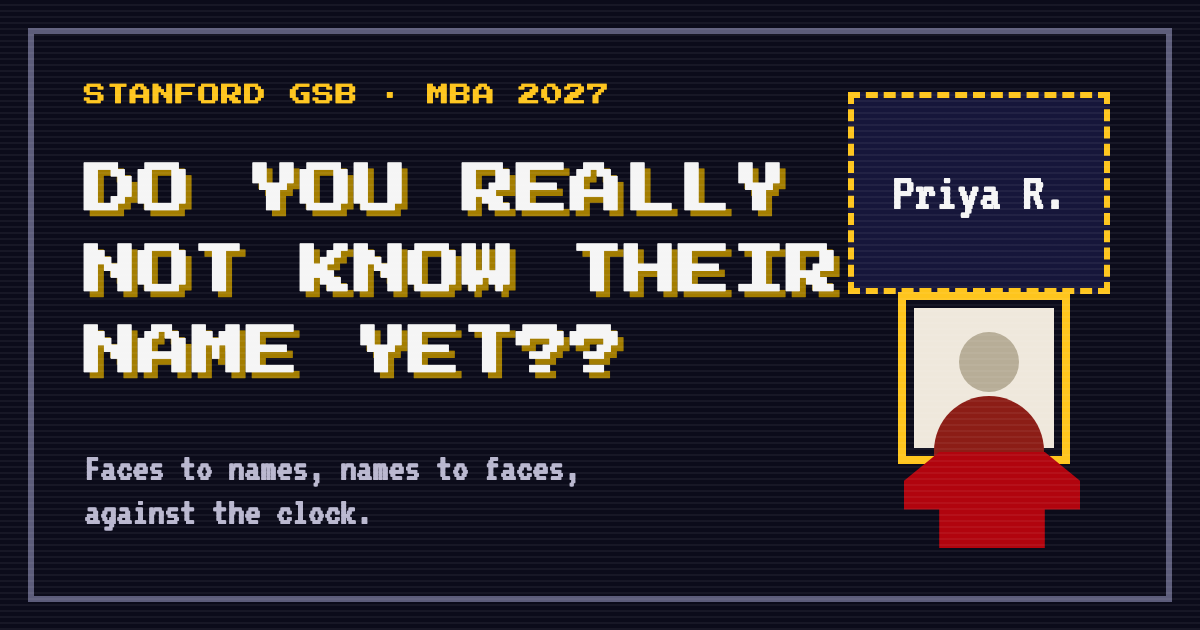
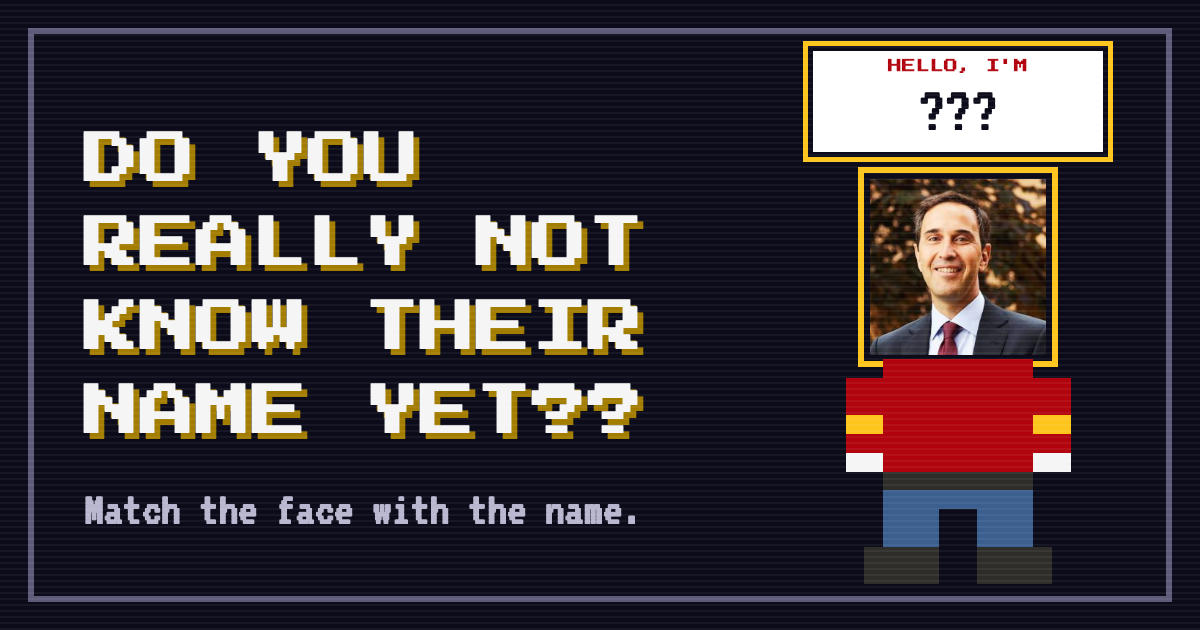
Preserve concurrent sharing design alongside campus launch fixes

diff --git a/server/gsb/invite.js b/server/gsb/invite.js
@@ -1,0 +1,46 @@
+// The page a shared link lands on, with a preview that says who is asking and for what. iMessage and the
+// other chat apps fetch it without a session, so it carries a nickname and a code and nothing else about
+// the class: no face, no classmate's name, no score. The visual title in the tab stays the game's name.
+import { readFile } from "node:fs/promises";
+import { siteMetadata } from "../../scripts/lib/site-metadata.js";
+import { normalizeCode } from "../../public/shared/codes.js";
+
+const SHELL = new URL("../../public/gsb/index.html", import.meta.url);
+let shell = null;
+const escape = (value) => String(value).replace(/[&<>"']/g, (c) => ({ "&": "&amp;", "<": "&lt;", ">": "&gt;", '"': "&quot;", "'": "&#39;" }[c]));
+
+/** What the preview should say for a link, or null for the plain page. */
+export async function inviteFor(db, kind, code) {
+  code = normalizeCode(code);
+  if (!code) return null;
+  if (kind === "speed") {
+    const [row] = await db.query("select c.mode,c.count,a.nickname from gsb_sprint_challenges c join gsb_accounts a on a.id=c.host_id where c.code=$1 and c.expires_at>now()", [code]);
+    if (!row || !row.nickname) return null;
+    return {
+      path: `/speed/${code}`,
+      title: `Do you know your classmates better than ${row.nickname}?`,
+      description: row.mode === "duel" ? `First to name all ${row.count} classmates wins.` : `The same ${row.count} classmates, whenever you like. Your turn.`,
+    };
+  }
+  if (kind === "room") {
+    const room = await db.store.getRoom(code);
+    const host = room?.doc?.players?.find((p) => p.id === room.doc.hostId);
+    if (!room || !host?.name || room.doc.phase === "over") return null;
+    const race = room.doc.game?.config?.mode === "race";
+    return { path: `/r/${code}`, title: `${host.name} started a ${race ? "race" : "quiz"}: room ${code}`, description: race ? "Twenty faces, first to finish wins." : "Ten shared questions. Jump in." };
+  }
+  return null;
+}
+
+/** The app shell with the preview tags for this link swapped in. */
+export async function inviteShell(invite, env = process.env) {
+  shell ??= siteMetadata(await readFile(SHELL, "utf8"), env);
+  if (!invite) return shell;
+  const origin = env.APP_ORIGIN ? new URL(env.APP_ORIGIN).origin : "";
+  const set = (source, key, value) => source.replace(new RegExp(`(<meta (?:property|name)="${key}" content=")[^"]*("\\s*/?>)`), (_, before, after) => before + escape(value) + after);
+  let html = shell;
+  for (const key of ["og:title", "twitter:title"]) html = set(html, key, invite.title);
+  html = set(html, "og:description", invite.description);
+  if (origin) html = set(html, "og:url", origin + invite.path);
+  return html;
+}

diff --git a/public/gsb/sprint-round.js b/public/gsb/sprint-round.js
@@ -130,7 +130,8 @@ export function SprintRound({ account, onExit, challenge = null, onChallenge = n
     <div class="form-field"><span>Round</span><div class="seg" role="group" aria-label="Round length">
       ${Object.keys(LENGTHS).map((value) => html`<button key=${value} type="button" class="segbtn" aria-pressed=${String(length === value)} disabled=${!canChange} onClick=${() => changeLength(value)}>${LENGTHS[value]} classmates</button>`)}
     </div></div>`;
-  const inviteButton = html`<${ShareLink} url=${inviteLink()} title=${GAME_NAME} text=${`Play my speed challenge in ${GAME_NAME} The code is ${contest?.code || challenge}.`} />`;
+  const inviteButton = html`<${ShareLink} url=${inviteLink()} title=${GAME_NAME} text=${`Same ${count} classmates for both of us. Your turn`} />`;
+  const scoreShare = challenge && result && html`<${ShareLink} url=${inviteLink()} title=${GAME_NAME} label="Share my score" text=${`I got ${result.correct} out of ${result.count} faces in ${(result.elapsedMs / 1000).toFixed(1)} seconds. Your turn`} />`;
   // A round prepares on its own when the screen opens or a setting changes; the button only appears after a failure.
   const controls = phase === "loading" ? html`<p role="status">Getting your photos ready${loaded[1] ? `: ${loaded[0]} of ${loaded[1]}` : ""}.</p>`
     : phase === "ready" || phase === "arming" ? html`<p class="small">${round.count} classmates are ready. Your timer starts with the first question.</p>
@@ -203,7 +204,7 @@ export function SprintRound({ account, onExit, challenge = null, onChallenge = n
         ${error && html`<p class="notice error" role="alert">${error}</p>`}
         ${!(saved || unsavable) && html`<button class="btn btn-primary" disabled=${saving} onClick=${save}>Retry saving result</button>`}
         ${challenge && html`<h2 class="lbl-heading">Standings</h2><${Standings} list=${contest?.standings} me=${account.id} />`}
-        <div class="row">${challenge ? inviteButton : html`<button class="btn btn-primary" disabled=${!(saved || unsavable)} onClick=${prepare}>Play again</button>`}
+        <div class="row">${challenge ? scoreShare : html`<button class="btn btn-primary" disabled=${!(saved || unsavable)} onClick=${prepare}>Play again</button>`}
           <button class="linkbtn" onClick=${onExit}>Back to games</button></div>
         ${pairs.length > 0 && html`<section class="review" aria-label="Your answers">
           ${missed.length > 0 && html`<h2 class="no">Missed (${missed.length})</h2><div class="pairs">${missed.map(pair)}</div>`}

diff --git a/public/gsb/duel-round.js b/public/gsb/duel-round.js
@@ -86,7 +86,10 @@ export function DuelRound({ account, R, onExit, onChallenge }) {
     return () => document.removeEventListener("keydown", onKey, true);
   }, [phase, question ? question.id : ""]);
 
-  const invite = html`<${ShareLink} url=${`${location.origin}/speed/${code}`} title=${GAME_NAME} text=${`Duel me in ${GAME_NAME} Ten classmates, two doors, same count. The code is ${code}.`} />`;
+  const link = `${location.origin}/speed/${code}`;
+  const invite = html`<${ShareLink} url=${link} title=${GAME_NAME} text=${`First to name all ${round?.count ?? 10} classmates wins...`} />`;
+  // From the result: the score is the message, and the link is the same ten people.
+  const scoreShare = result && html`<${ShareLink} url=${link} title=${GAME_NAME} label="Share my score" text=${`I got ${result.correct} out of ${result.count} faces in ${(result.elapsedMs / 1000).toFixed(1)} seconds. Your turn`} />`;
   const seats = html`<ol class="seats" aria-label="Who is in">
     ${(contest?.standings || []).map((s) => html`<li key=${s.accountId} class=${`seat ${s.ready || s.accountId === contest.hostId ? "ready" : ""} ${s.accountId === account.id ? "me" : ""}`}>
       <span class="who">${s.nickname}${s.accountId === contest.hostId ? " · host" : ""}</span>
@@ -176,8 +179,9 @@ export function DuelRound({ account, R, onExit, onChallenge }) {
           <span class="how">${s.result ? `${seconds(s.result.elapsedMs)} · ${s.result.correct}/${s.result.count} · ${s.result.score.toLocaleString()} pts` : s.status === "playing" ? `Still playing, ${s.progress.index} of ${round?.count ?? 10}` : "Not started"}</span>
         </li>`)}</ol>
         <div class="row">
-          ${contest?.nextCode ? html`<button class="btn btn-primary" onClick=${followRematch}>Join the rematch</button>`
-            : html`<button class="btn btn-primary" disabled=${rematching} onClick=${followRematch}>${rematching ? "Making a code" : "Rematch"}</button>`}
+          ${scoreShare}
+          ${contest?.nextCode ? html`<button class="btn btn-secondary" onClick=${followRematch}>Join the rematch</button>`
+            : html`<button class="btn btn-secondary" disabled=${rematching} onClick=${followRematch}>${rematching ? "Making a code" : "Rematch"}</button>`}
           <button class="linkbtn" onClick=${onExit}>Back to games</button>
         </div>
         ${pairs.length > 0 && html`<section class="review" aria-label="Your answers">

diff --git a/tests/gsb/sprint.integration.js b/tests/gsb/sprint.integration.js
@@ -360,3 +360,23 @@ test("two-choice solo records stay separate from four-choice records and reuse b
   assert.equal(ownTwo.data.fastestPerfect.correct,10);
   for (const choices of [3, "2", null]) assert.equal((await request("/api/sprint/prepare",{method:"POST",cookie:a.cookie,body:{direction:"face",length:"quick",choices}})).status,400);
 });
+
+test("a shared link's page carries a preview that names who is asking, and a plain page otherwise", async () => {
+  const a = await login();
+  await request("/api/profile", { method: "POST", cookie: a.cookie, body: { nickname: "Preview host" } });
+  const created = await request("/api/sprint/challenge", { method: "POST", cookie: a.cookie, body: { direction: "face", length: "quick", mode: "duel" } });
+  const page = async (query) => { const r = await fetch(`${base}/api/index?${query}`); return { status: r.status, type: r.headers.get("content-type"), html: await r.text() }; };
+  const duel = await page(`shell=speed&code=${created.data.code.toLowerCase()}`);
+  assert.equal(duel.status, 200); assert.match(duel.type, /text\/html/);
+  assert.match(duel.html, /<meta property="og:title" content="Do you know your classmates better than Preview host\?"/);
+  assert.match(duel.html, /<meta name="twitter:title" content="Do you know your classmates better than Preview host\?"/);
+  assert.match(duel.html, /<meta property="og:description" content="First to name all 10 classmates wins\."/);
+  assert.match(duel.html, new RegExp(`<meta property="og:url" content="${base}/speed/${created.data.code}"`));
+  assert.match(duel.html, /<title>Do You Really Not Know Their Name Yet\?\?<\/title>/, "the tab keeps the game's name");
+  const plain = await page("shell=speed&code=ZZZZ");
+  assert.equal(plain.status, 200);
+  assert.match(plain.html, /<meta property="og:title" content="Do You Really Not Know Their Name Yet\?\?"/, "an unknown code gets the ordinary page");
+  await request("/api/profile", { method: "POST", cookie: a.cookie, body: { nickname: 'Ampers&nd <b>' } });
+  const escaped = await page(`shell=speed&code=${created.data.code}`);
+  assert.match(escaped.html, /better than Ampers&amp;nd &lt;b&gt;\?"/, "a nickname cannot break out of the attribute");
+});

diff --git a/public/gsb/components.js b/public/gsb/components.js
@@ -15,9 +15,9 @@ export { api } from "./api.js";
  * An invite on its way: on a phone (and a Mac with a share sheet) "Share invite link" opens the system
  * share sheet, which is how a code reaches a group chat; "Copy invite link" is always there too and says
  * "Link copied" for a moment. A cancelled share is not a failure and falls through to nothing.
- * @param {{ url: string, title: string, text: string, className?: string }} props
+ * @param {{ url: string, title: string, text: string, className?: string, label?: string }} props
  */
-export function ShareLink({ url, title, text, className = "btn btn-secondary" }) {
+export function ShareLink({ url, title, text, className = "btn btn-secondary", label = "Share invite link" }) {
   const [copied, setCopied] = useState(false), [note, setNote] = useState("");
   const canShare = typeof navigator !== "undefined" && typeof navigator.share === "function";
   const copy = async () => {
@@ -36,7 +36,7 @@ export function ShareLink({ url, title, text, className = "btn btn-secondary" })
     catch (e) { if (!(e && /** @type {any} */ (e).name === "AbortError")) await copy(); }
   };
   return html`<span class="share-link">
-    ${canShare && html`<button type="button" class=${className.replace("btn-secondary", "btn-primary")} onClick=${share}>Share invite link</button>`}
+    ${canShare && html`<button type="button" class=${className.replace("btn-secondary", "btn-primary")} onClick=${share}>${label}</button>`}
     <button type="button" class=${className} onClick=${copy}>${copied ? "Link copied" : canShare ? "Copy link" : "Copy invite link"}</button>
     ${note && html`<span class="small muted share-note">${note}</span>`}
   </span>`;

diff --git a/server/gsb/router.js b/server/gsb/router.js
@@ -8,6 +8,7 @@ import { GUEST_ROUND_SIZE, guestConfig, getGuestRun, startGuestRun, finishGuestR
 import { faceHistories, faceSummary } from "./face-history.js";
 import { publicSiteConfig } from './site-config.js';
 import { CAMPUS_LIMITS, loginEmailDailyLimit } from './launch-limits.js';
+import { inviteFor, inviteShell } from './invite.js';
 import { createChallenge, joinChallenge, challengeView, rematchChallenge, readyChallenge, beginChallenge, progressChallenge, prepareSprint, startSprint, finishSprint, sprintRecords, checkpointSprint } from "./sprint.js";
 import {
   authenticate,
@@ -50,6 +51,16 @@ export function createGsbHandler(deps = {}) {
         if (!(await db.store.bumpLimit(`gsb:${key}`, ms, max)).allowed)
           bad(429, "rate_limited", message);
       };
+      // Public invitation metadata contains only the host nickname and game code.
+      if (method === "GET" && ["speed", "room"].includes(q.shell)) {
+        const invite = await inviteFor(db, q.shell, q.code).catch(() => null);
+        const html = await inviteShell(invite);
+        res.setHeader("Cache-Control", "public, max-age=60");
+        res.setHeader("Content-Type", "text/html; charset=utf-8");
+        res.statusCode = 200;
+        res.end(html);
+        return;
+      }
       if (method === "GET" && p[0] === "health")
         return sendJson(res, 200, {
           ok: true,

diff --git a/public/gsb/app.js b/public/gsb/app.js
@@ -24,6 +24,7 @@ import { makeRng } from "../kits/_lib/rng.js";
 import { keepMissing, pickDirection, studyOrder } from "./learning.js";
 // A missed person returns this many cards later in the same session.
 const RETRY_AFTER = 5;
+const ROOM_INVITE = "Let's play"; // voice-ok: the owner's invite wording.
 import { createPracticeReviews, mergePracticeProgress } from "./practice-reviews.js";
 import { loginLink } from "./login-link.js";
 import { invitePath } from "./invite-path.js";
@@ -1009,7 +1010,8 @@ function Room({ initial, account, run, onExit }) {
           <${ShareLink}
             url=${`${location.origin}/r/${code}`}
             title=${GAME_NAME}
-            text=${`Join my ${r.game.config.mode === "race" ? "race" : "quiz"} in ${GAME_NAME} The room code is ${code}.`}
+            text=${ROOM_INVITE}
+            label=${`Share the ${r.game.config.mode === "race" ? "race" : "quiz"}`}
           />
           <h2 class="players-heading">${r.players.length === 1 ? "Just you so far" : `${r.players.length} in the room`}</h2>
           <ul class="players" aria-live="polite">

diff --git a/scripts/lib/site-metadata.js b/scripts/lib/site-metadata.js
@@ -9,7 +9,7 @@ export function siteMetadata(source,env=process.env){
   const escape=value=>value.replace(/[&<>"']/g,c=>({'&':'&amp;','<':'&lt;','>':'&gt;','"':'&quot;',"'":'&#39;'}[c]));
   const set=(key,value)=>{source=source.replace(new RegExp(`(<meta (?:property|name)="${key}" content=")[^"]*("\\s*/?>)`),(_,before,after)=>before+escape(value)+after);};
   if(env.APP_ORIGIN){
-    const url=new URL(env.APP_ORIGIN),local=!env.VERCEL&&url.protocol==='http:'&&url.hostname==='localhost';
+    const url=new URL(env.APP_ORIGIN),local=!env.VERCEL&&url.protocol==='http:'&&['localhost','127.0.0.1'].includes(url.hostname);
     if(url.username||url.password||url.pathname!=='/'||url.search||url.hash||url.protocol!=='https:'&&!local)throw new Error('Configure APP_ORIGIN as your HTTPS deployment origin.');
     set('og:url',url.origin+'/');for(const key of ['og:image','twitter:image'])set(key,url.origin+'/gsb/og.png');
   }

diff --git a/tests/scripts/site-metadata.test.js b/tests/scripts/site-metadata.test.js
@@ -12,4 +12,8 @@ test('metadata retains the existing title and substitutes only safe owner config
   assert.ok(changed.includes('Class &quot;A&quot; &lt;B&gt;'));
   assert.equal(changed.match(/<title>(.*?)<\/title>/)[1],source.match(/<title>(.*?)<\/title>/)[1]);
   for(const APP_ORIGIN of ['ftp://localhost','https://user:pass@example.test','https://example.test/path','http://example.test'])assert.throws(()=>siteMetadata(source,{APP_ORIGIN}));
+  for (const APP_ORIGIN of ['http://localhost:3138','http://127.0.0.1:3141']) {
+    assert.ok(siteMetadata(source,{APP_ORIGIN}).includes(APP_ORIGIN+'/gsb/og.png'));
+    assert.throws(()=>siteMetadata(source,{APP_ORIGIN,VERCEL:'1'}));
+  }
 });

diff --git a/server/dev.js b/server/dev.js
@@ -85,6 +85,14 @@ async function handle(req, res, handler = api) {
     await handler(req, res);
     return;
   }
+  // Classmates' shared links get their preview tags from the function, the way vercel.json rewrites them.
+  const invite = process.env.APP_PROFILE === 'gsb' && url.pathname.match(/^\/(speed|r)\/([a-z]{4})$/i);
+  if (invite) {
+    req.url = `/api/index?shell=${invite[1] === 'r' ? 'room' : 'speed'}&code=${invite[2].toUpperCase()}`;
+    req.query = {};
+    await handler(req, res);
+    return;
+  }
 
   await serveStatic(res, decodePath(url.pathname));
 }

diff --git a/docs/gsb/LAUNCH.md b/docs/gsb/LAUNCH.md
@@ -110,3 +110,7 @@ This change adds no dependency, migration, paid service, roster import or accoun
 Validation: 519 unit tests and four new isolated HTTP/Postgres launch tests pass. Twenty-eight distinct Chromium/WebKit scenarios cover Guest, first-login/nicknames, cross-browser room/duel invitations, two-choice solo, live duels and rematches. The first guest run and focused repeat exposed a dropped key immediately after a question transition. After binding during DOM commit, all eight focused guest/input checks pass, including a deterministic regression at that transition. Measured guest answer transitions were at most 6 ms locally. Phone/desktop result screenshots were inspected. Type checks, both builds, source/history/local-secret scans and GitHub CI pass. Exact read-only comparisons retain the original four accounts, three tester session grants and two settings. No real login emails or 450-browser production load test were run.
 
 Production acceptance: source `3235b2c`, deployment `dpl_AiANs2JoBjqEU12Wz4xeCAcZmSYt`, is READY at the unchanged production URL. The served guest module matches the reviewed source. A fresh WebKit session completed countdown, ten real approved faces and two answer targets, then saw sign-in required; zero page errors and anonymous full-deck access returned 401. Both GitHub Tests and Production smoke test passed. The local onboarding preview was restarted at `http://127.0.0.1:3140/api/preview`. No production environment change was needed: the omitted email-budget setting now defaults to 900. Rollback is the prior `dpl_NE2gVr6qS8kQ3xgNt7sVRCj4zNhL`; it would also restore the old restrictive caps. Later documentation-only deployments preserve this application code.
+
+### Concurrent design deployment
+
+During final verification, Claude deployed private-checkout commit `f34baa5` through the CLI as `dpl_GTfwvpD8cConEe6FSiTuoAU3bqv3`. That checkout predated the public launch work, so it restored the old email/network caps and guest behavior. Its new shared-link previews, invitation wording, score sharing and preview image have been ported as reviewed file changes into this clean repository, preserving the newer launch, email, guest and two-target behavior. No private Git history was imported and Claude's checkout was not edited. Future design and deployment work must start from this repository's current `main`; deploying the historical checkout can restore old behavior even if this repository's CI passes.

diff --git a/docs/gsb/SPEED-ROUND.md b/docs/gsb/SPEED-ROUND.md
@@ -56,3 +56,7 @@ A duel is a challenge with `mode: "duel"`: ten classmates, face to name, two cho
 `two-door-pieces.js` shares the portrait, named bodies and left/right gesture mapping across Guest, solo Speed and Duel; `.sprint-duel` supplies the existing styling. This is a presentation primitive, not a new game engine. Guest still auto-counts 3-2-1 and requires email after one run; solo uses the existing start/result lifecycle; Duel retains readiness and shared starts.
 
 Solo run documents and their 20-to-10 segments now explicitly record `choices`. Records filter by `coalesce(doc.choices,4)` in addition to existing comparison dimensions, so older four-choice scores stay available and earlier two-choice duel scores become correctly grouped. No schema migration or history rewrite is needed. Pending browser saves restore their own choice count (four for old payloads). Changing difficulty fetches a new sequence; changing 20 to 10 within that difficulty still reuses both loaded halves without another request.
+
+## Shared links and their previews
+
+`vercel.json` rewrites `/speed/CODE` and `/r/CODE` to the function with `?shell=speed|room&code=`, and the dev server does the same for the `gsb` profile. `server/gsb/invite.js` serves the app shell with the preview tags swapped: for a challenge or duel the host's nickname makes the title "Do you know your classmates better than {nickname}?" and the description says how many classmates and whether it starts on one count; for a room, "{host} started a quiz: room MKRT". An unknown, expired or finished code gets the ordinary page. The tags carry a nickname and a code only, never a face, a classmate's name or a score, and the tab title stays the game's name. Cached for a minute. The share sheet texts are the owner's: "First to name all 10 classmates wins..." from a duel lobby, "Same 20 classmates for both of us. Your turn" from a challenge, "I got 9 out of 10 faces in 8.4 seconds. Your turn" from a result ("Share my score"), and "Let's play" from a room (voice-ok: the owner's wording).
